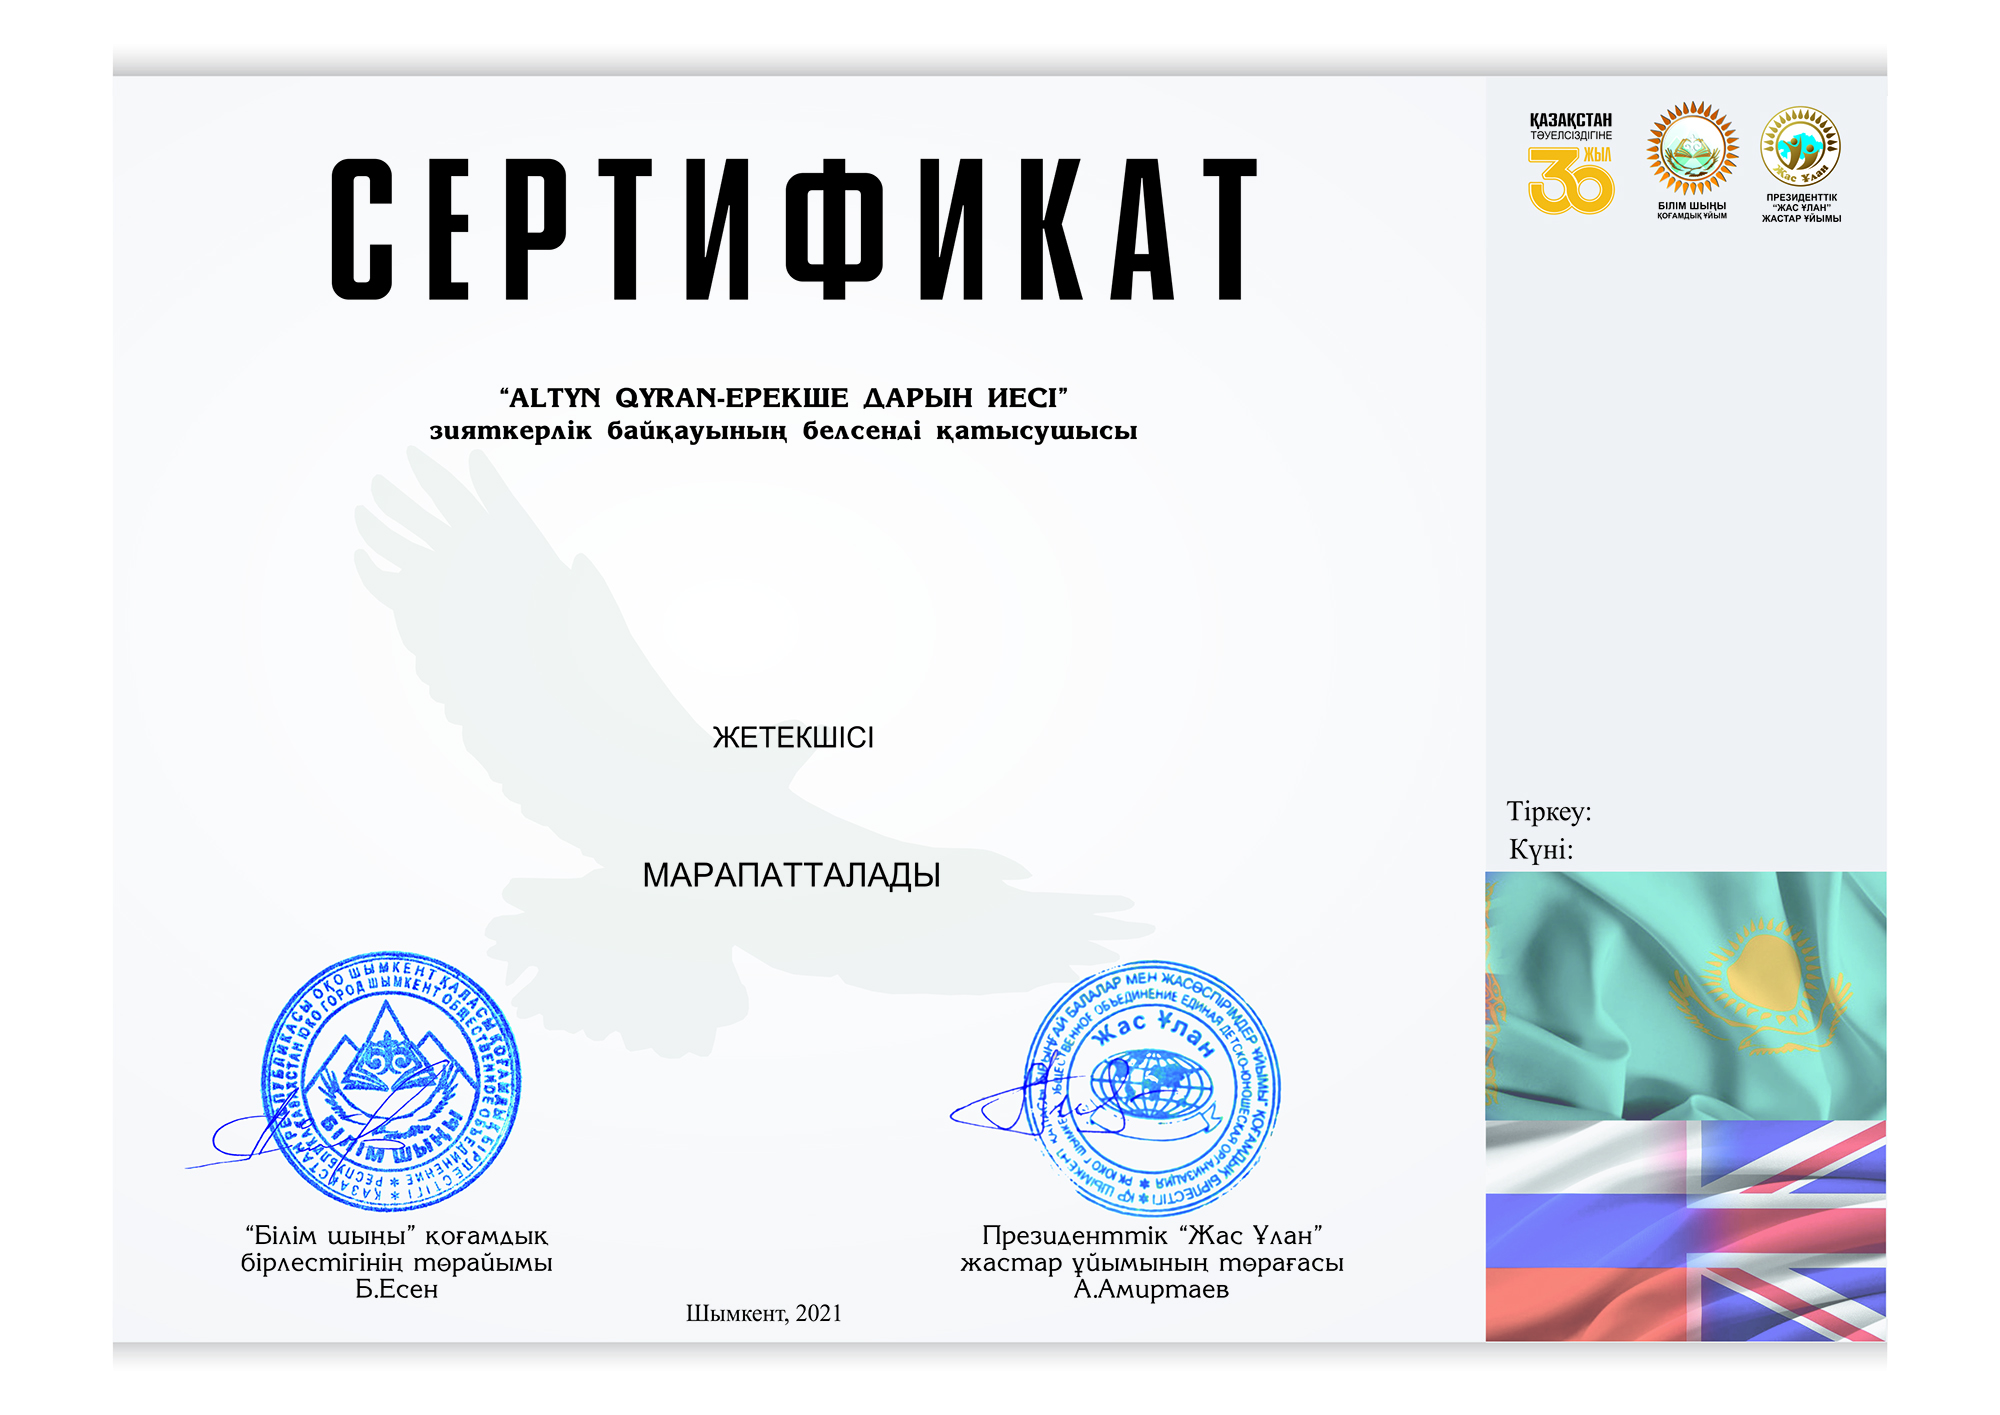
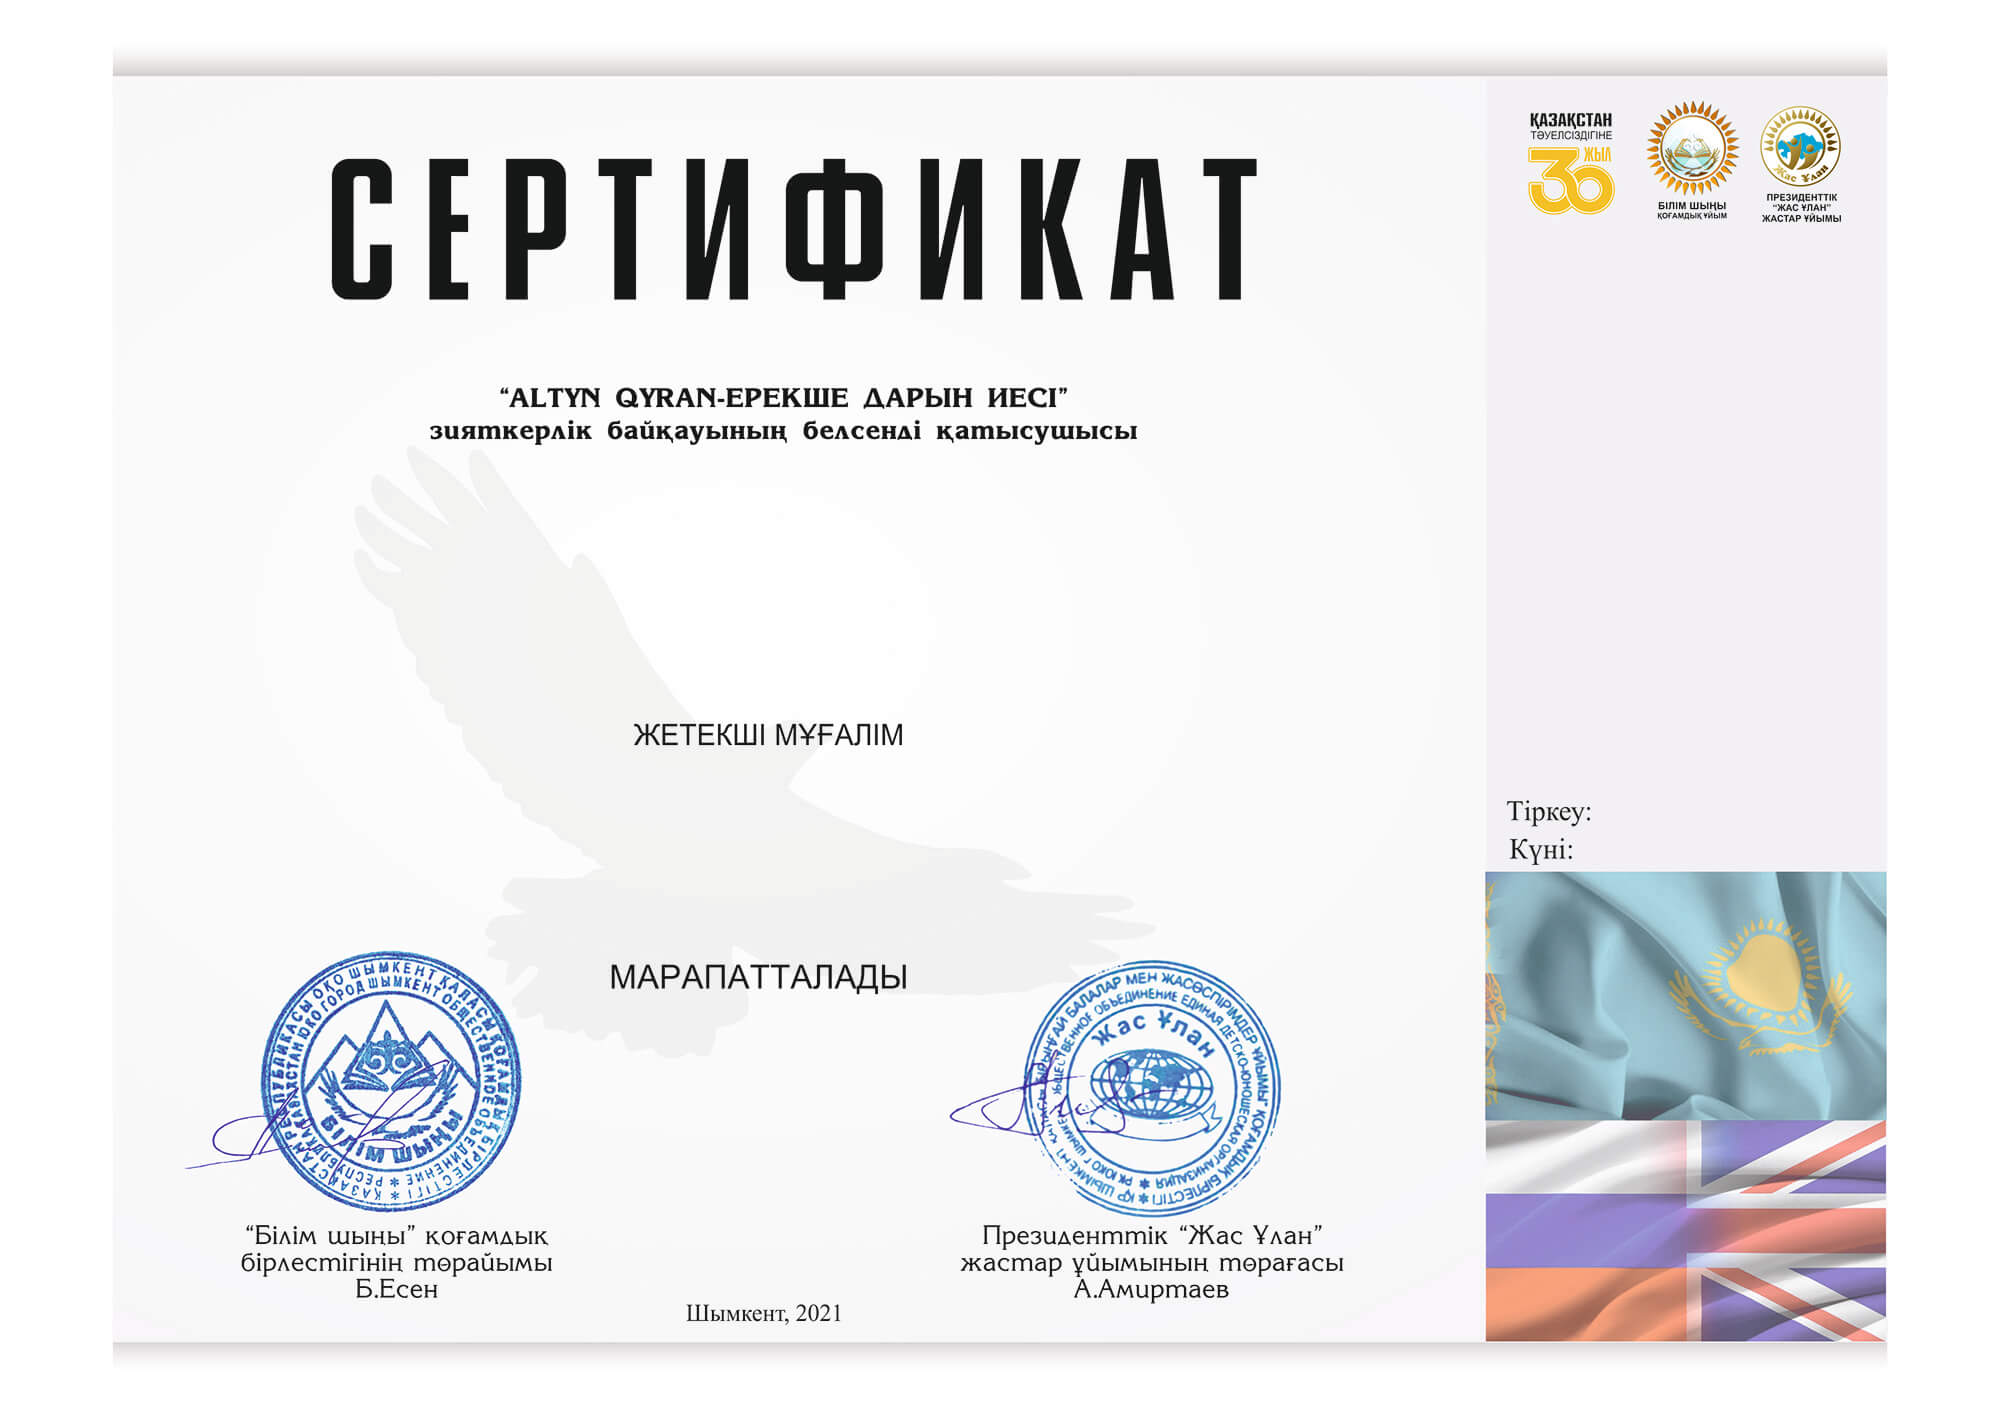
Olympiad fixes

diff --git a/frontend/views/olympiad/_cert-thank-leader.php b/frontend/views/olympiad/_cert-thank-leader.php
@@ -11,11 +11,15 @@ $qrCode = (new QrCode(\yii\helpers\Url::toRoute(['olympiad/get-cert-thank-leader
     <div class="cert-page" style="background-image: url('./img/thanks-altyn-qyran-2021.jpg'); text-align: center; background-size: cover; background-repeat: no-repeat; font-family: 'Times New Roman'; height: 800px">
         <div style="padding-left: 360px; padding-top: 200px">
             <div style="padding-top: 15px; padding-left: 60px; width: 600px;">
-                <div id="cert-name" style="height: 80px; font-size: 18px; font-weight: bold; text-transform: capitalize; color: #000">
+                <div id="cert-name" style="height: 120px; font-size: 22px; font-weight: bold; color: #000">
                     <?= $testAssignment->leader_name ?>
+                    <br>
+                    <?= $testAssignment->leader_name_second ?>
+                    <br>
+                    <?= $testAssignment->leader_name_third ?>
                 </div>
             </div>
-            <div id="footer" style="text-align: left; padding-left: 20px; padding-top: 316px; width: 160px; font-size: 16px; color: #454545; font-family: 'Times New Roman'">
+            <div id="footer" style="text-align: left; padding-left: 20px; padding-top: 275px; width: 160px; font-size: 16px; color: #454545; font-family: 'Times New Roman'">
                 <div id="cert-qrcode" style="width: 160px; font-size: 22px; padding-left: -52px; font-weight: bold;"><img src="<?= $qrCode->writeDataUri() ?>"></div>
                 <div id="cert-number" style="padding-top: 5px"> №<?= $testAssignment->id ?></div>
                 <div id="cert-date" style="padding-top: 0;"><?= date('d.m.Y') ?> жыл</div>

diff --git a/frontend/views/olympiad/_diploma.php b/frontend/views/olympiad/_diploma.php
@@ -30,9 +30,15 @@ $qrCode = (new QrCode(\yii\helpers\Url::toRoute(['olympiad/get-cert', 'id' => $t
                     <b><?= $testAssignment->surname . ' ' . $testAssignment->name . ' ' . $testAssignment->patronymic ?></b>
                 </div>
             </div>
-            <div style="padding-top: 20px; font-size: 16px; height: 58px; text-transform: capitalize;"><?= $testAssignment->leader_name ?></div>
+            <div style="padding-top: 15px; font-size: 22px; height: 120px; text-transform: capitalize">
+                <?= $testAssignment->leader_name ?>
+                <br>
+                <?= $testAssignment->leader_name_second ?>
+                <br>
+                <?= $testAssignment->leader_name_third ?>
+            </div>
         </div>
-        <div class="border" style="padding-left: 120px; padding-top: -50px; color: #fff9f6">
+        <div class="border" style="padding-left: 120px; padding-top: -108px; color: #fff9f6">
             <div id="cert-qrcode" style="padding-left: -55px; padding-top: 24px;"><?= '<img src="' . $qrCode->writeDataUri() . '">' ?></div>
             <div id="cert-number" style="font-size: 14px; padding-top: 12px">№<?= $testAssignment->id ?></div>
             <div id="cert-date" style="font-size: 14px; padding-top: 1px; padding-left: -10px"><?= date('d.m.Y') ?> жыл</div>

diff --git a/frontend/views/olympiad/_cert.php b/frontend/views/olympiad/_cert.php
@@ -35,11 +35,15 @@ if ($testAssignment->testOption->test->olympiad_id === 8) {
             <div style="font-size: 18px; padding-top: 3px; color: #000">
                 <b><?= $testAssignment->surname . ' ' . $testAssignment->name . ' ' . $testAssignment->patronymic ?></b>
             </div>
-            <div style="font-size: 16px; color: #000; padding-top: 30px; height: 80px; text-transform: capitalize;">
+            <div style="padding-left: -20px; font-size: 22px; color: #000; padding-top: 30px; height: 120px; text-transform: capitalize;">
                 <b><?= $testAssignment->leader_name ?></b>
+                <br>
+                <b><?= $testAssignment->leader_name_second ?></b>
+                <br>
+                <b><?= $testAssignment->leader_name_third ?></b>
             </div>
         </div>
-        <div style="padding-left: 910px; padding-top: -62px">
+        <div style="padding-left: 910px; padding-top: -102px">
             <div id="cert-number" style="font-size: 14px;">№<?= $testAssignment->id ?></div>
             <div id="cert-date" style="font-size: 14px; padding-top: 3px"><?= date('d.m.Y') ?> жыл</div>
         </div>

diff --git a/common/models/TestAssignment.php b/common/models/TestAssignment.php
@@ -14,6 +14,7 @@ use yii\helpers\ArrayHelper;
  * @property string $surname
  * @property string $leader_name
  * @property string $leader_name_second
+ * @property string $leader_name_third
  * @property string $parent_name
  * @property string $iin
  * @property int|null $school_id
@@ -54,7 +55,7 @@ class TestAssignment extends \yii\db\ActiveRecord
         return [
             [['test_option_id', 'school_id', 'grade', 'point', 'created_at'], 'integer'],
             [['name', 'surname', 'iin', 'school_id', 'leader_name', 'grade'], 'required'],
-            [['name', 'surname', 'patronymic', 'leader_name', 'leader_name_second', 'parent_name'], 'string', 'max' => 255],
+            [['name', 'surname', 'patronymic', 'leader_name', 'leader_name_second', 'leader_name_third', 'parent_name'], 'string', 'max' => 255],
             [['iin'], 'string', 'max' => 20],
             [['test_option_id'], 'exist', 'skipOnError' => true, 'targetClass' => TestOption::className(), 'targetAttribute' => ['test_option_id' => 'id']],
 

diff --git a/frontend/views/olympiad/assignment.php b/frontend/views/olympiad/assignment.php
@@ -67,7 +67,11 @@ $this->params['heroDescription'] = 'БІЛІМ ШЫҢЫ - ҒЫЛЫМ СЫРЫ';
             'prompt' => Yii::t('app', 'Выберите класс')
         ]) ?>
 
-        <?= $form->field($model, 'leader_name')->textInput(['id' => 'leader-name-input']) ?>
+        <?= $form->field($model, 'leader_name')->textInput(['id' => 'leader-name-input'])->label('Қазақ тілі пәні мұғалім') ?>
+
+        <?= $form->field($model, 'leader_name_second')->textInput()->label('Орыс тілі пәні мұғалімі') ?>
+
+        <?= $form->field($model, 'leader_name_third')->textInput()->label('Ағылшын тілі пәні мұғалімі') ?>
 
         <?= \yii\bootstrap4\Html::submitButton(Yii::t('app', 'Отправить'), ['class' => 'btn btn-success']) ?>
 

diff --git a/console/migrations/m211222_151744_add_leader_name_third_column_to_test_assignment_table.php b/console/migrations/m211222_151744_add_leader_name_third_column_to_test_assignment_table.php
@@ -1,0 +1,27 @@
+<?php
+
+use yii\db\Migration;
+
+/**
+ * Handles adding columns to table `{{%test_assignment}}`.
+ */
+class m211222_151744_add_leader_name_third_column_to_test_assignment_table extends Migration
+{
+    /**
+     * {@inheritdoc}
+     */
+    public function safeUp()
+    {
+        $this->addColumn('test_assignment', 'leader_name_third', $this->string()->after('leader_name_second'));
+    }
+
+    /**
+     * {@inheritdoc}
+     */
+    public function safeDown()
+    {
+        echo "can not be reverted m211222_151744_add_leader_name_third_column_to_test_assignment_table";
+
+        return false;
+    }
+}

diff --git a/backend/views/test-assignment/_form.php b/backend/views/test-assignment/_form.php
@@ -57,6 +57,8 @@ use common\models\Test;
 
     <?= $form->field($model, 'leader_name_second') ?>
 
+    <?= $form->field($model, 'leader_name_third') ?>
+
     <?= $form->field($model, 'parent_name') ?>
 
     <?= $form->field($model, 'point')->textInput(['type' => 'number']) ?>
